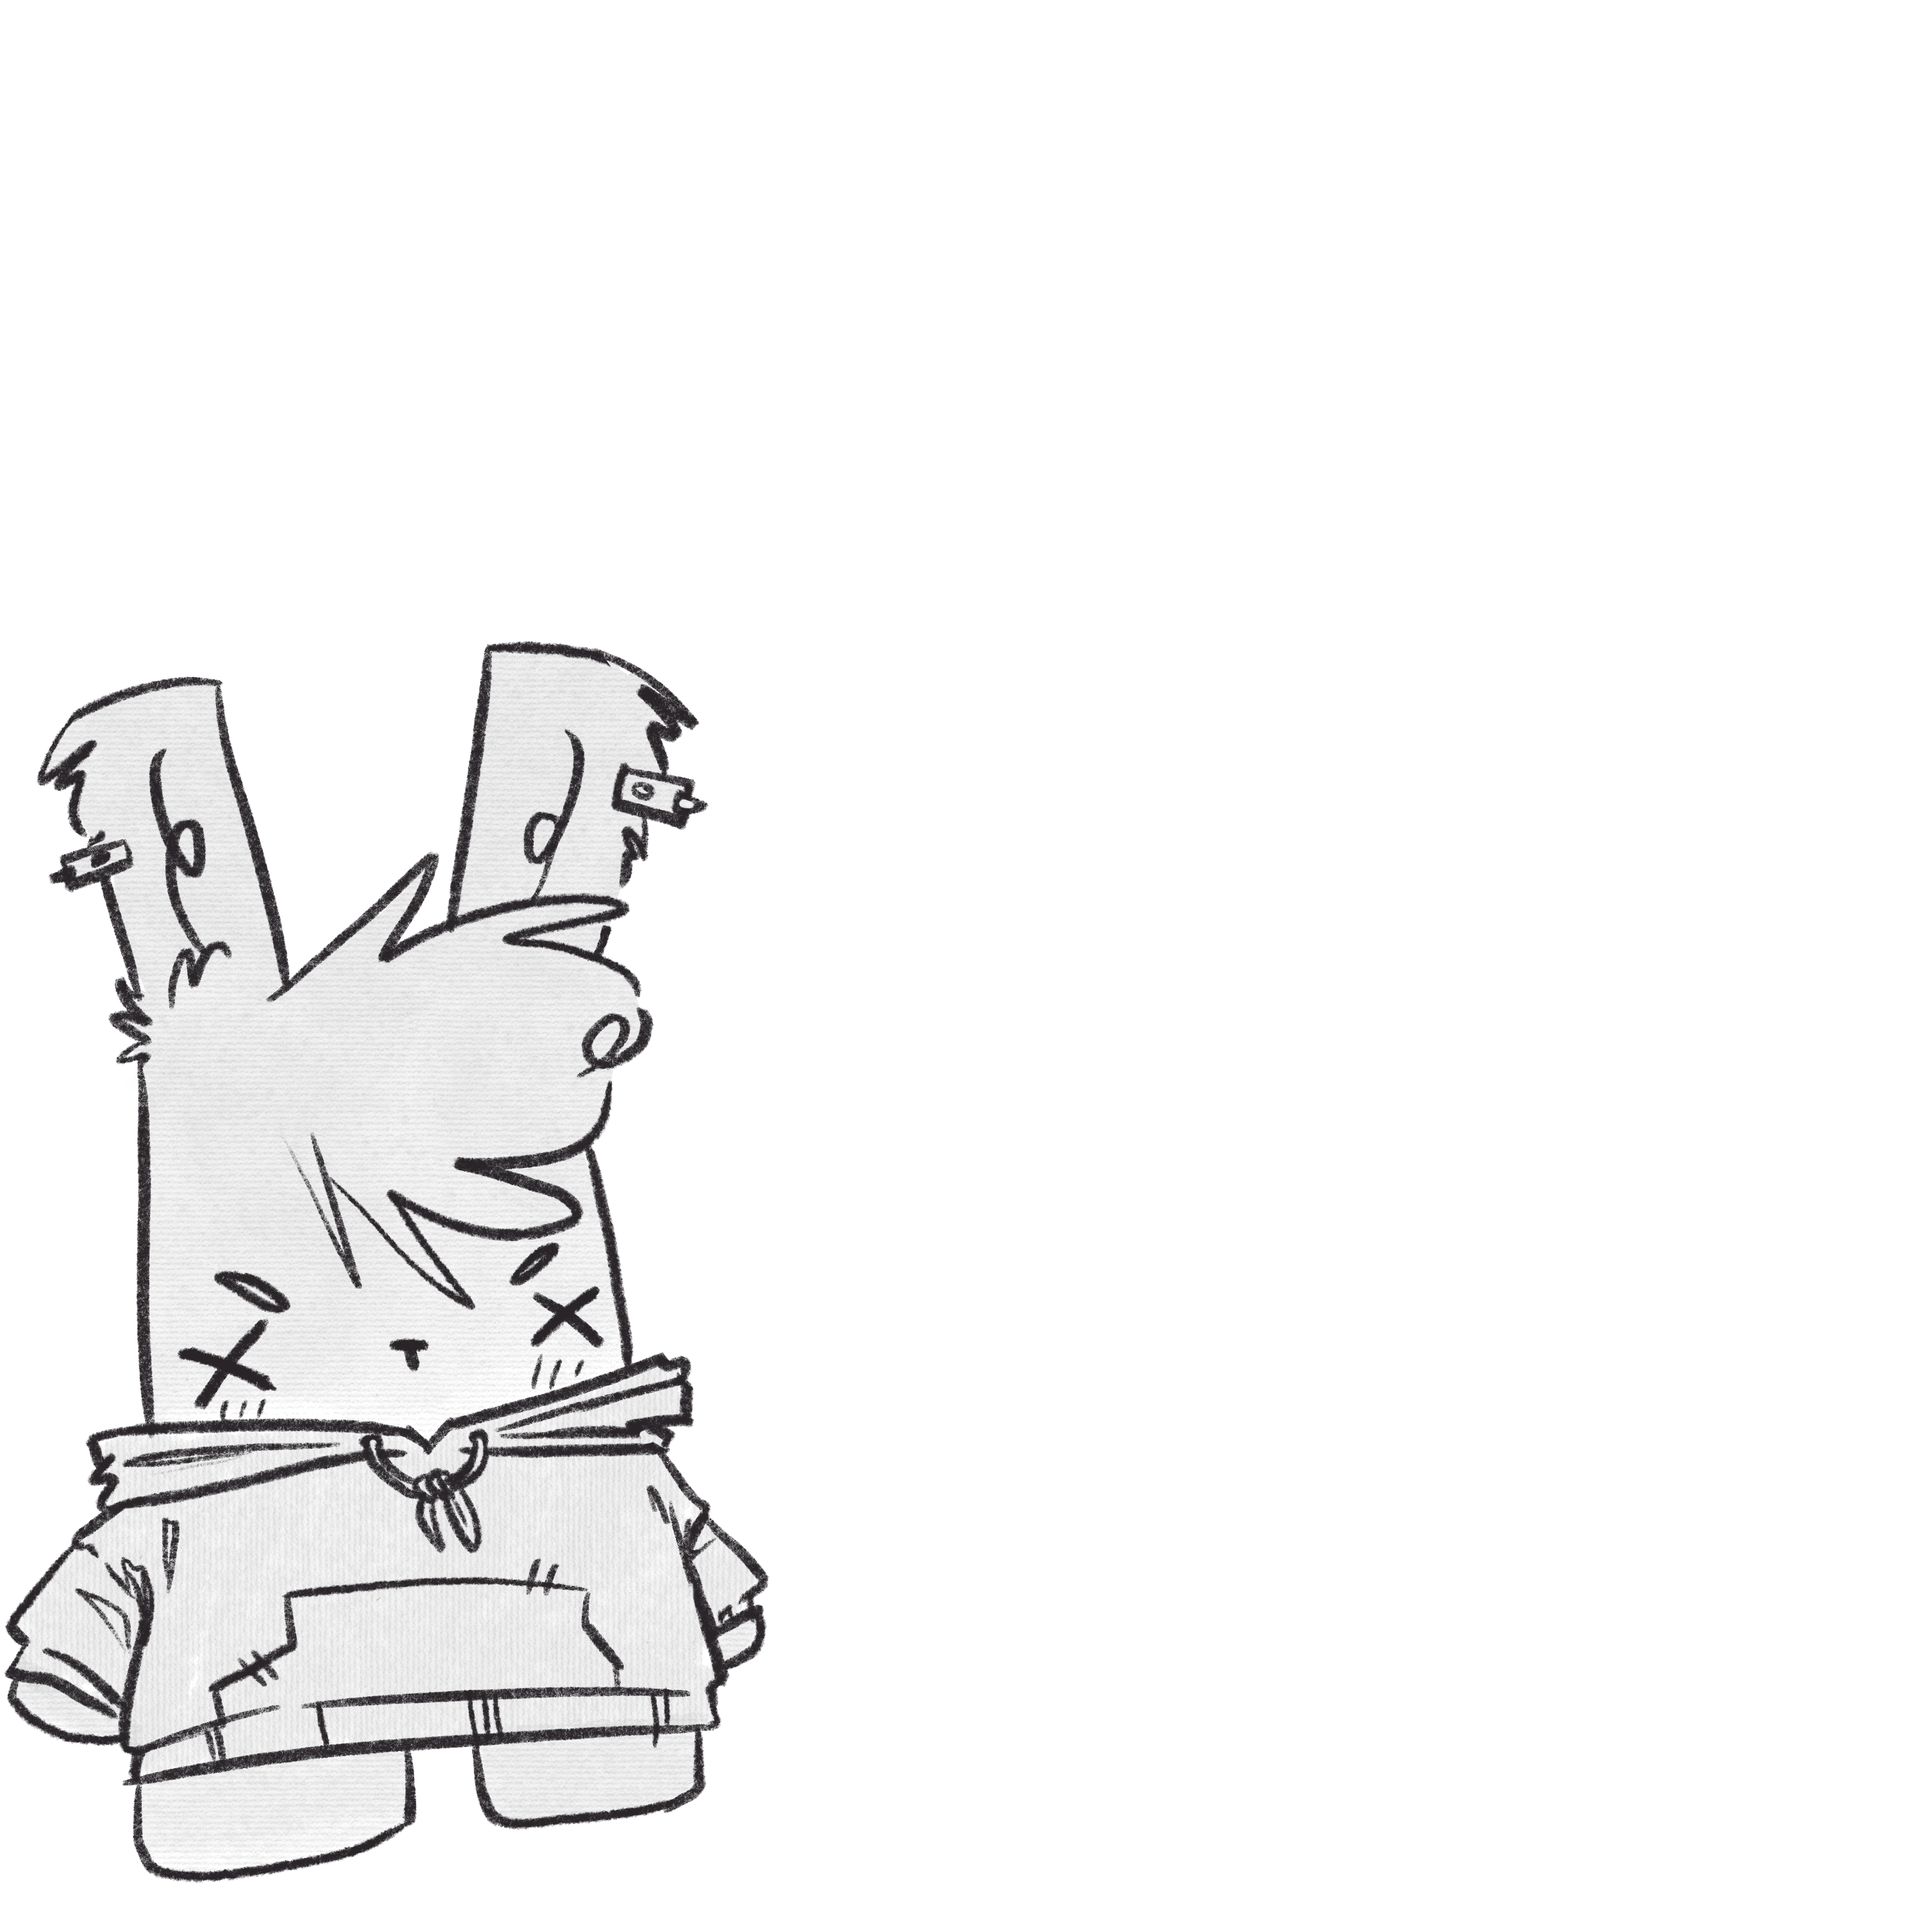
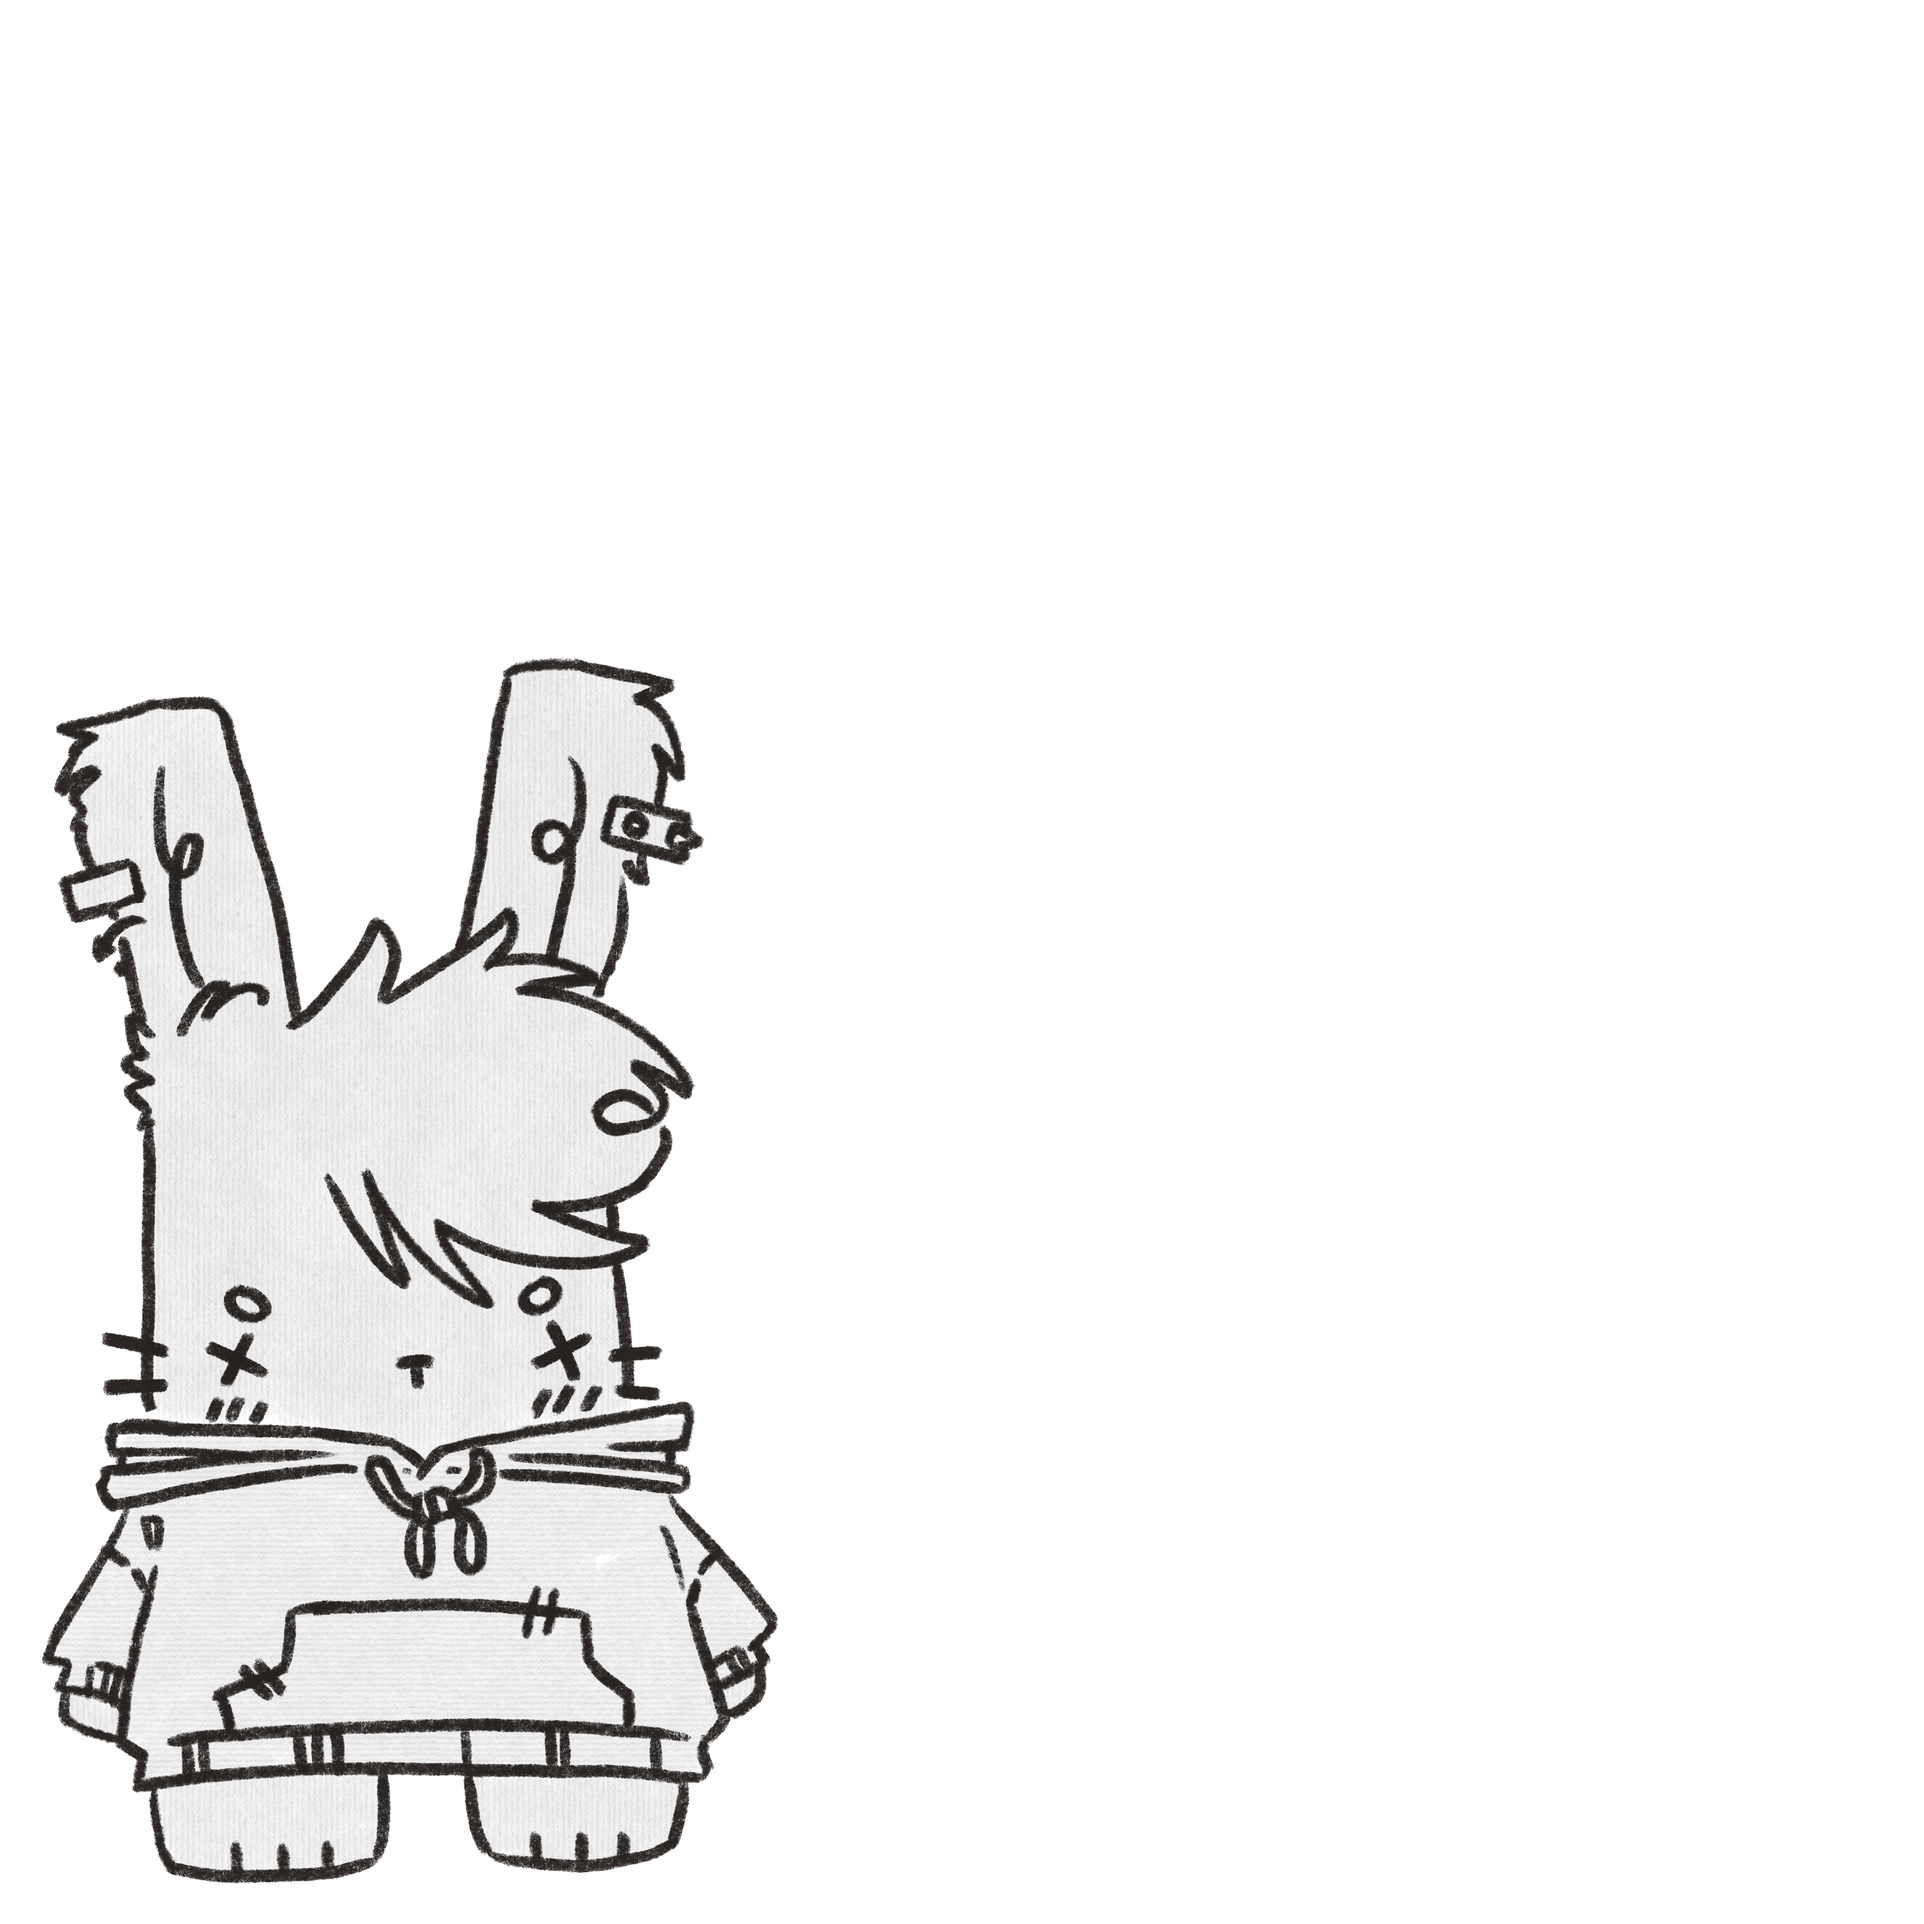
assets update

Changed region(s): [[0.0, 0.31, 0.403, 0.992]]

diff --git a/photos.html b/photos.html
@@ -17,7 +17,7 @@
 <body>
 <header>
 </header>
-<img class="bunny" src="https://nerrchii.neocities.org/resources/draw_bun.png" alt="bunni" style=" margin-bottom: 133px; margin-right: 100px " >
+<img class="bunny" src="resources/Bunnydraw_v2.png" alt="bunni" style=" margin-bottom: 133px; margin-right: 100px " >
 <div class="draggable_div" style="top: 60px; left: 210px;">
     <div class="draggable_div_header" ></div>
     <div class="draggable_div_container">

diff --git a/style_pho_draw.css b/style_pho_draw.css
@@ -90,7 +90,9 @@ p {
     height: auto;
     margin-left: -60px;
     margin-top: 220px;
+    transform: rotate(-3deg);
     image-rendering: optimizeSpeed;
+
 }
 .ncont {
     position: absolute;
